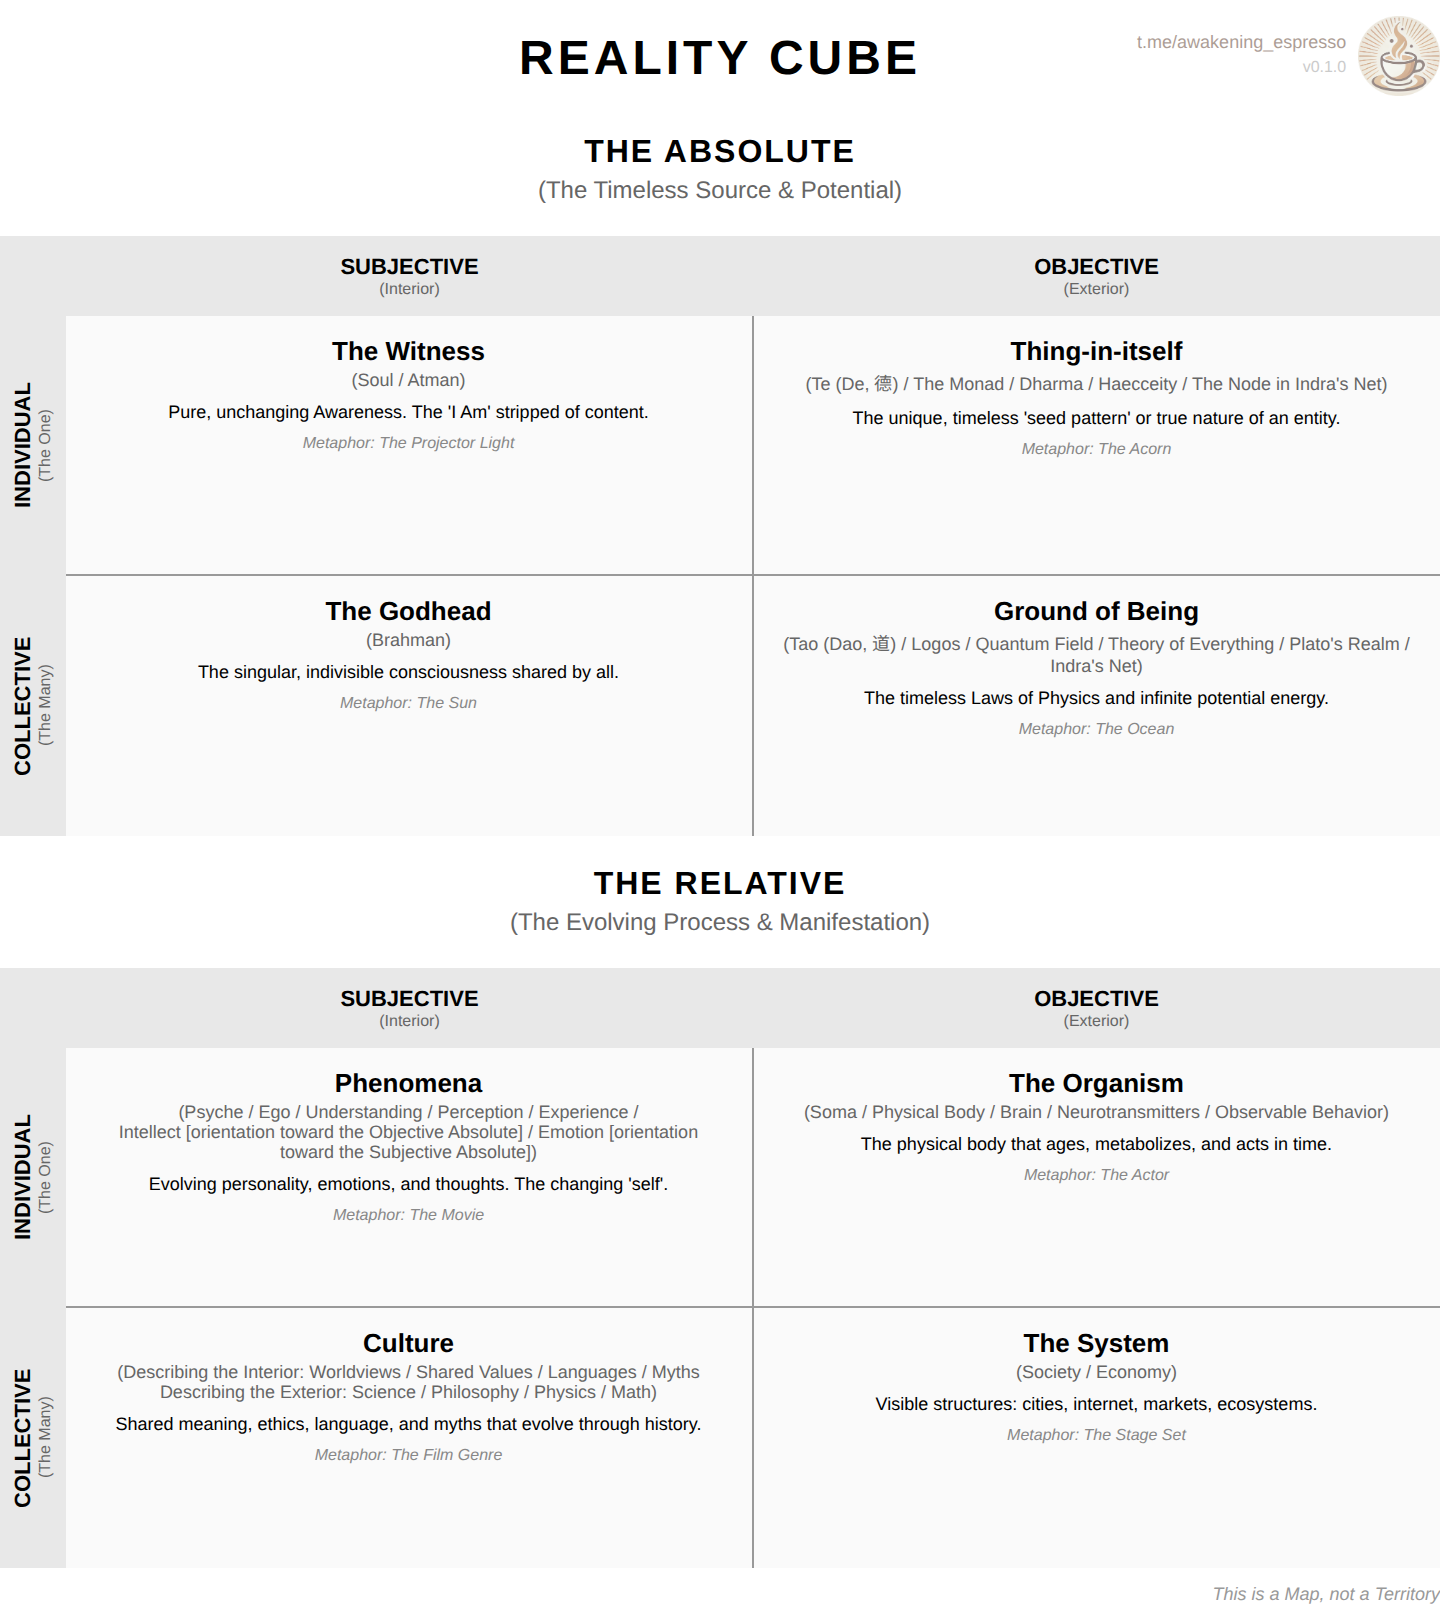
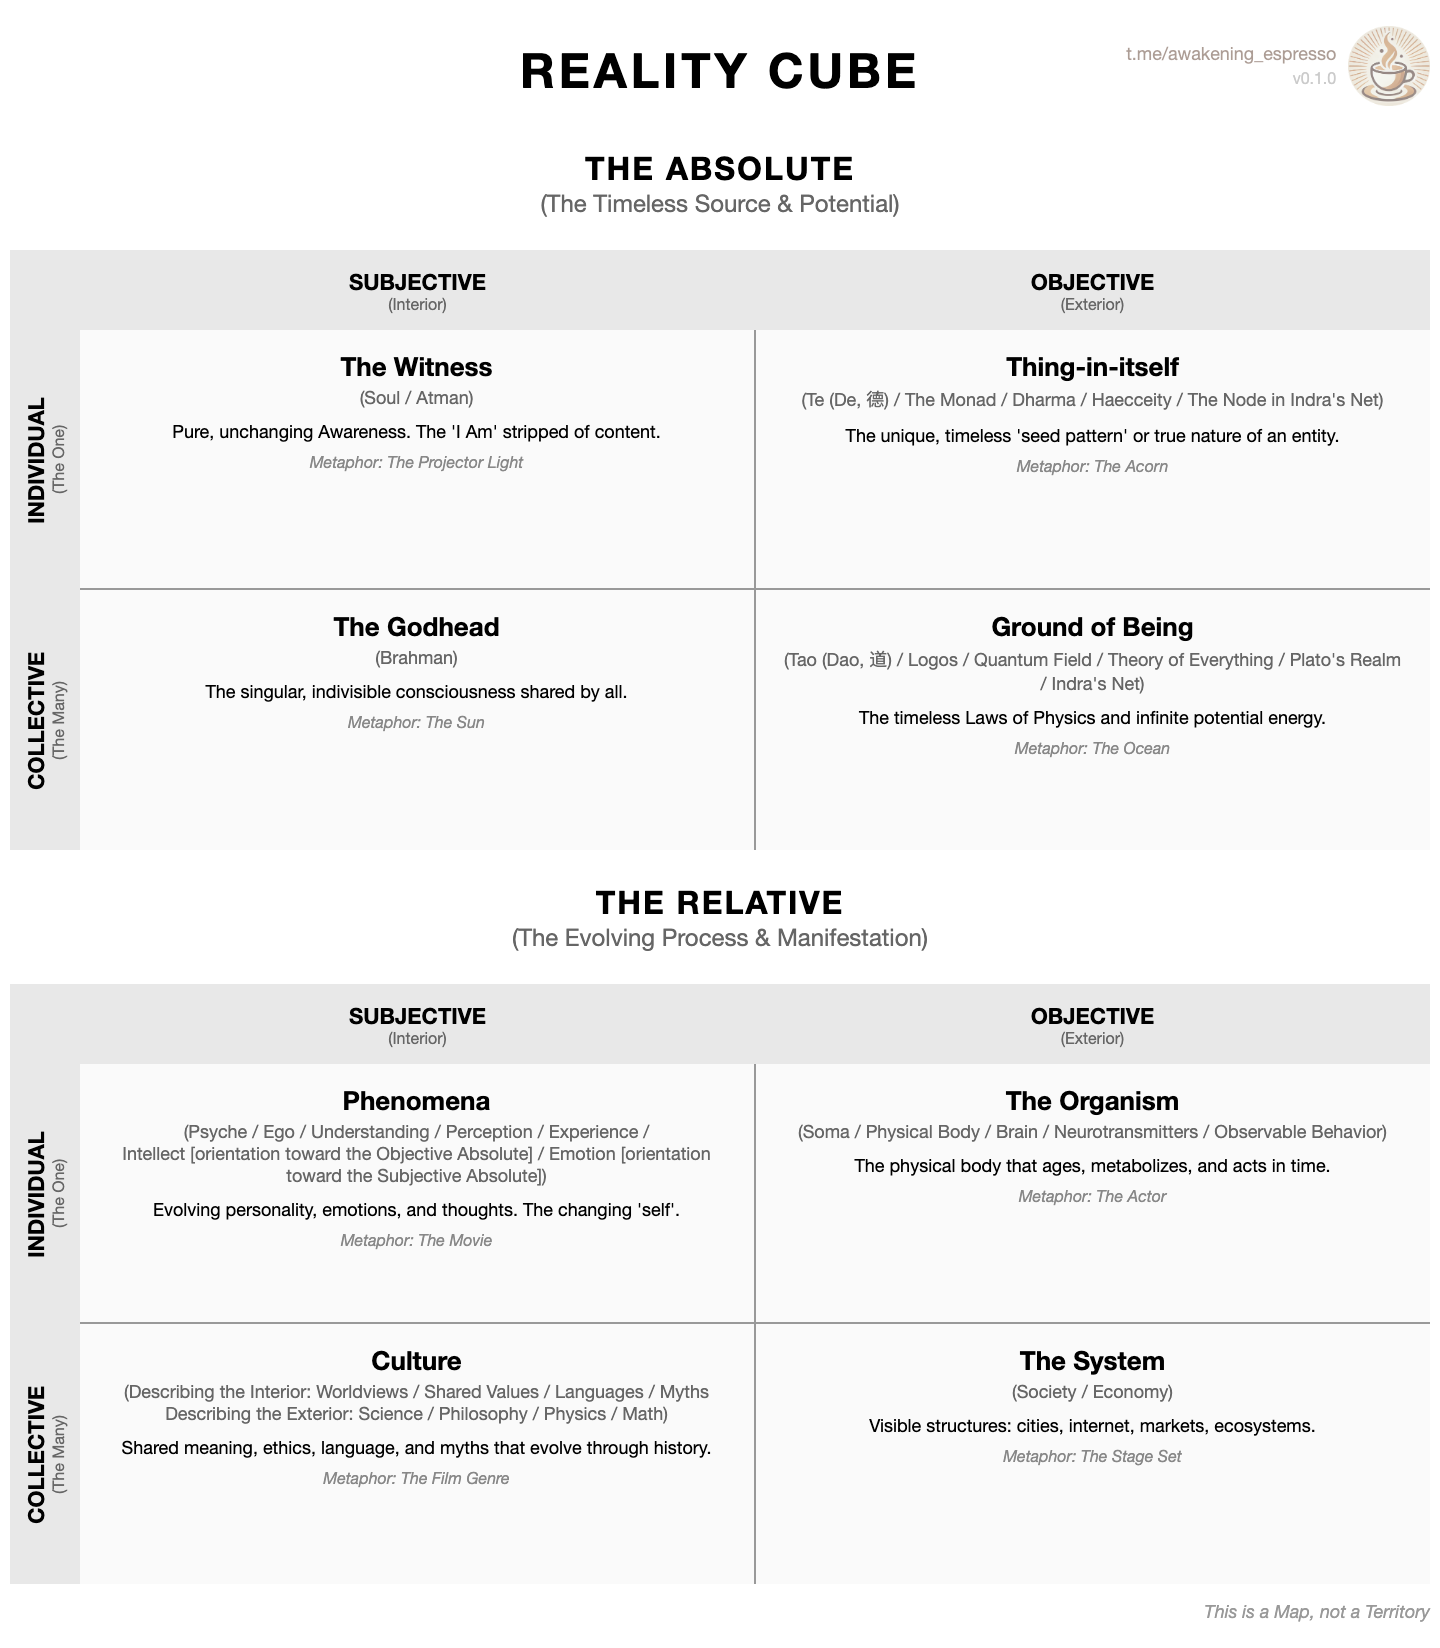
Improve picture; auto-bump version

diff --git a/index.html b/index.html
@@ -11,6 +11,7 @@
             font-family: 'Helvetica Neue', Helvetica, Arial, 'Noto Sans SC', sans-serif;
             background: white;
             width: 720px;
+            padding: 5px;
         }
         .wall { background: white; }
         .wall-title { text-align: center; margin: 16px; }

diff --git a/template.html b/template.html
@@ -11,6 +11,7 @@
             font-family: 'Helvetica Neue', Helvetica, Arial, 'Noto Sans SC', sans-serif;
             background: white;
             width: 720px;
+            padding: 5px;
         }
         .wall { background: white; }
         .wall-title { text-align: center; margin: 16px; }
